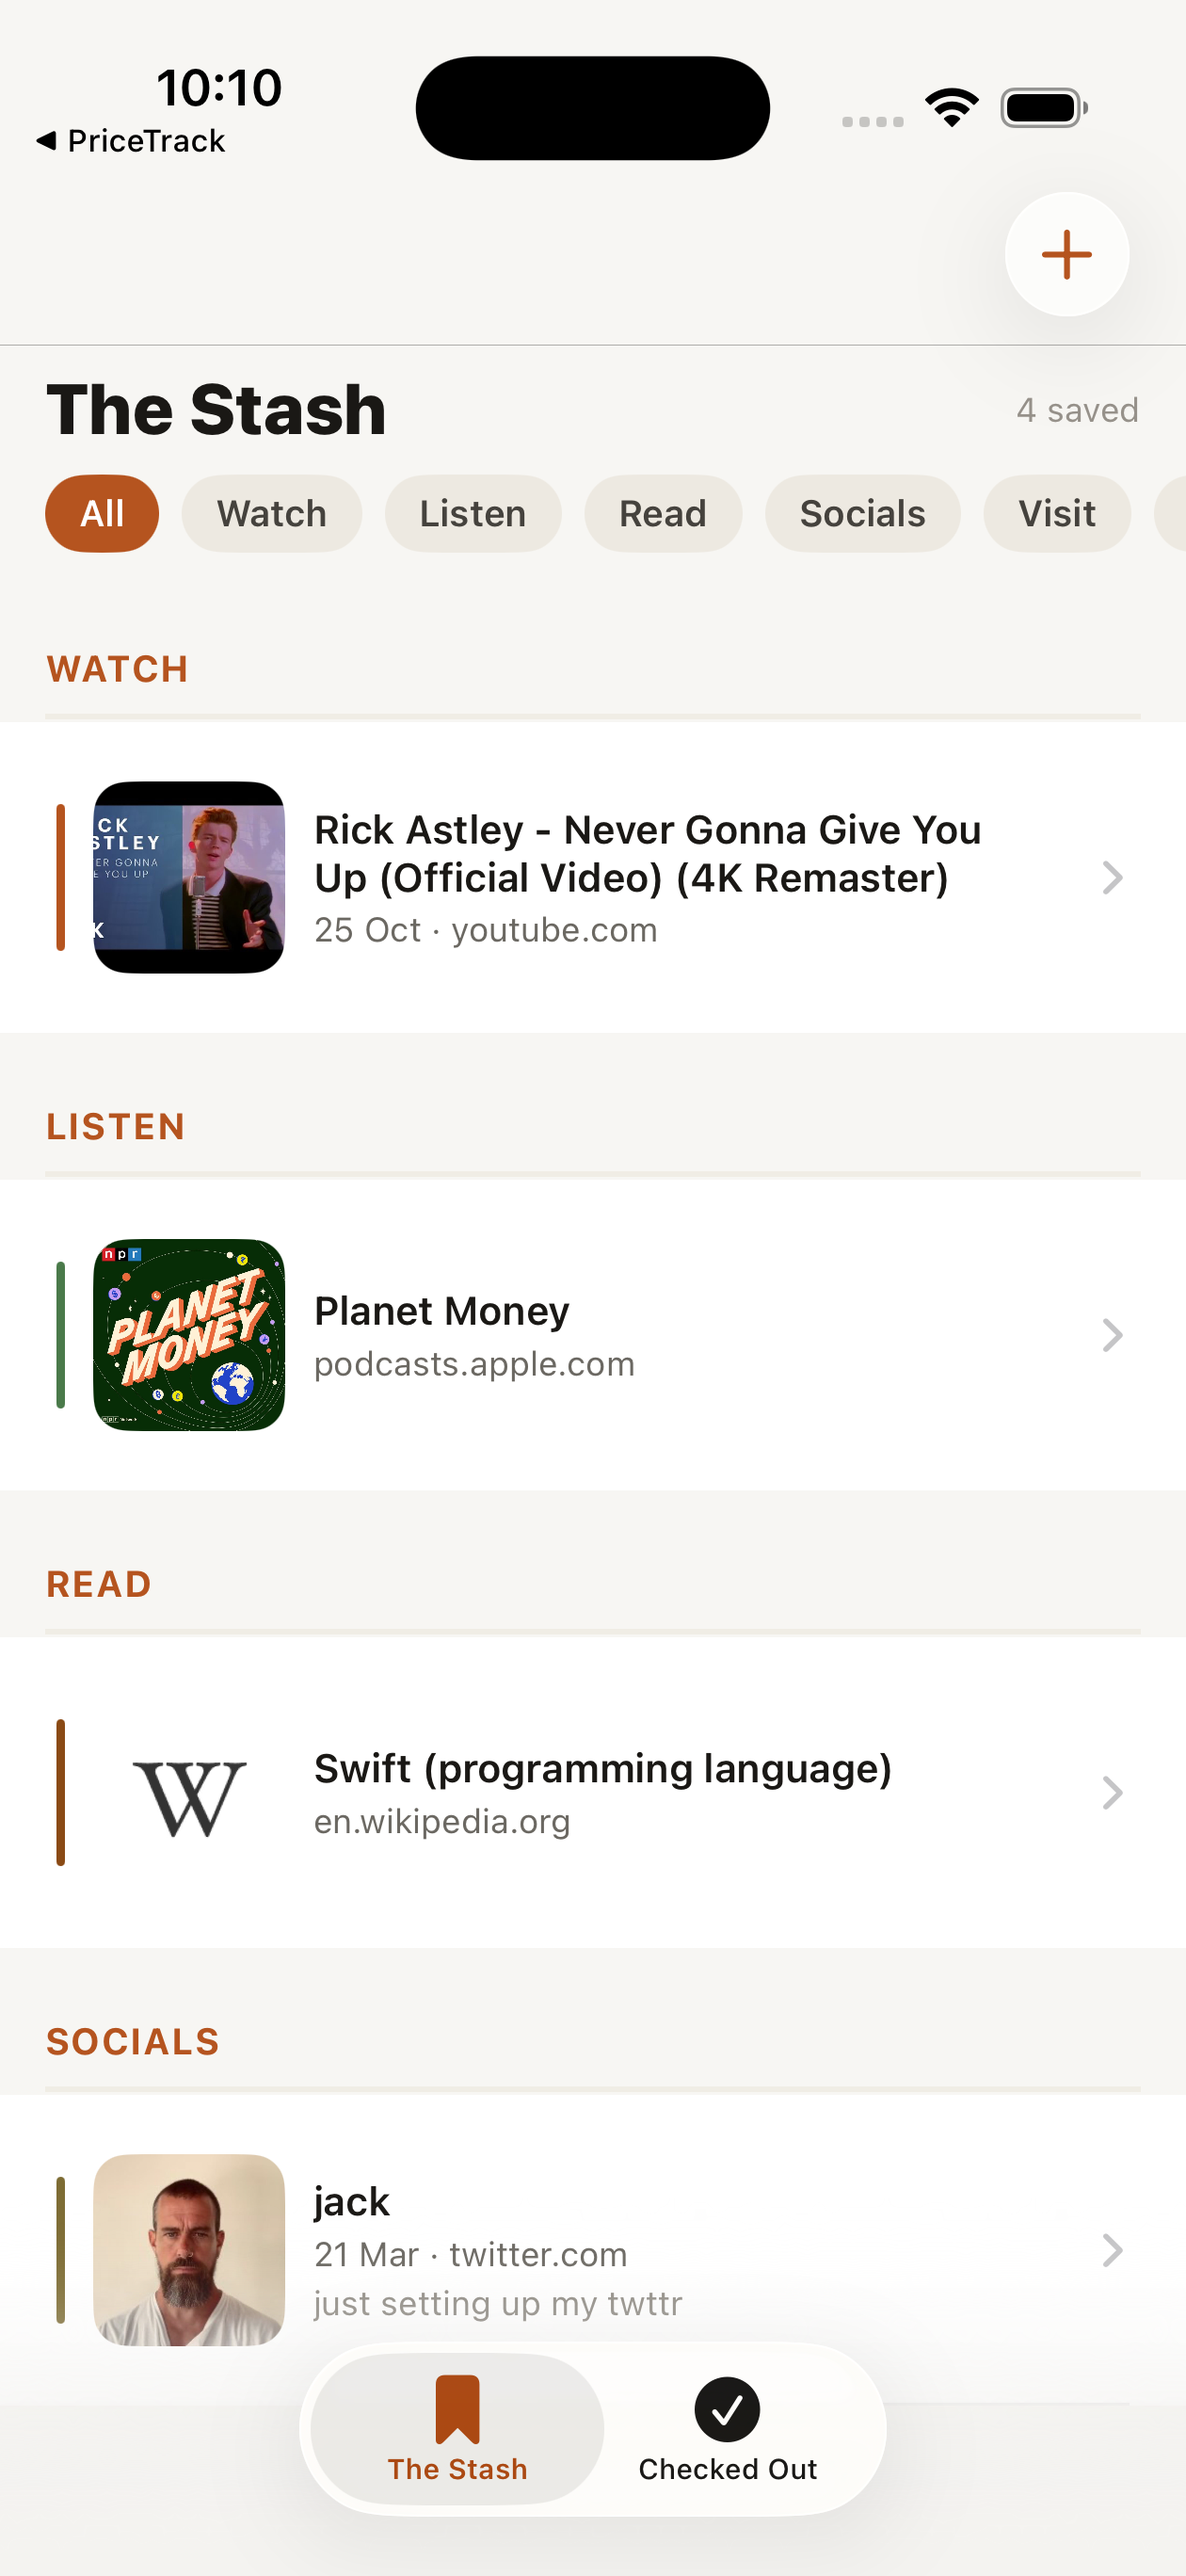
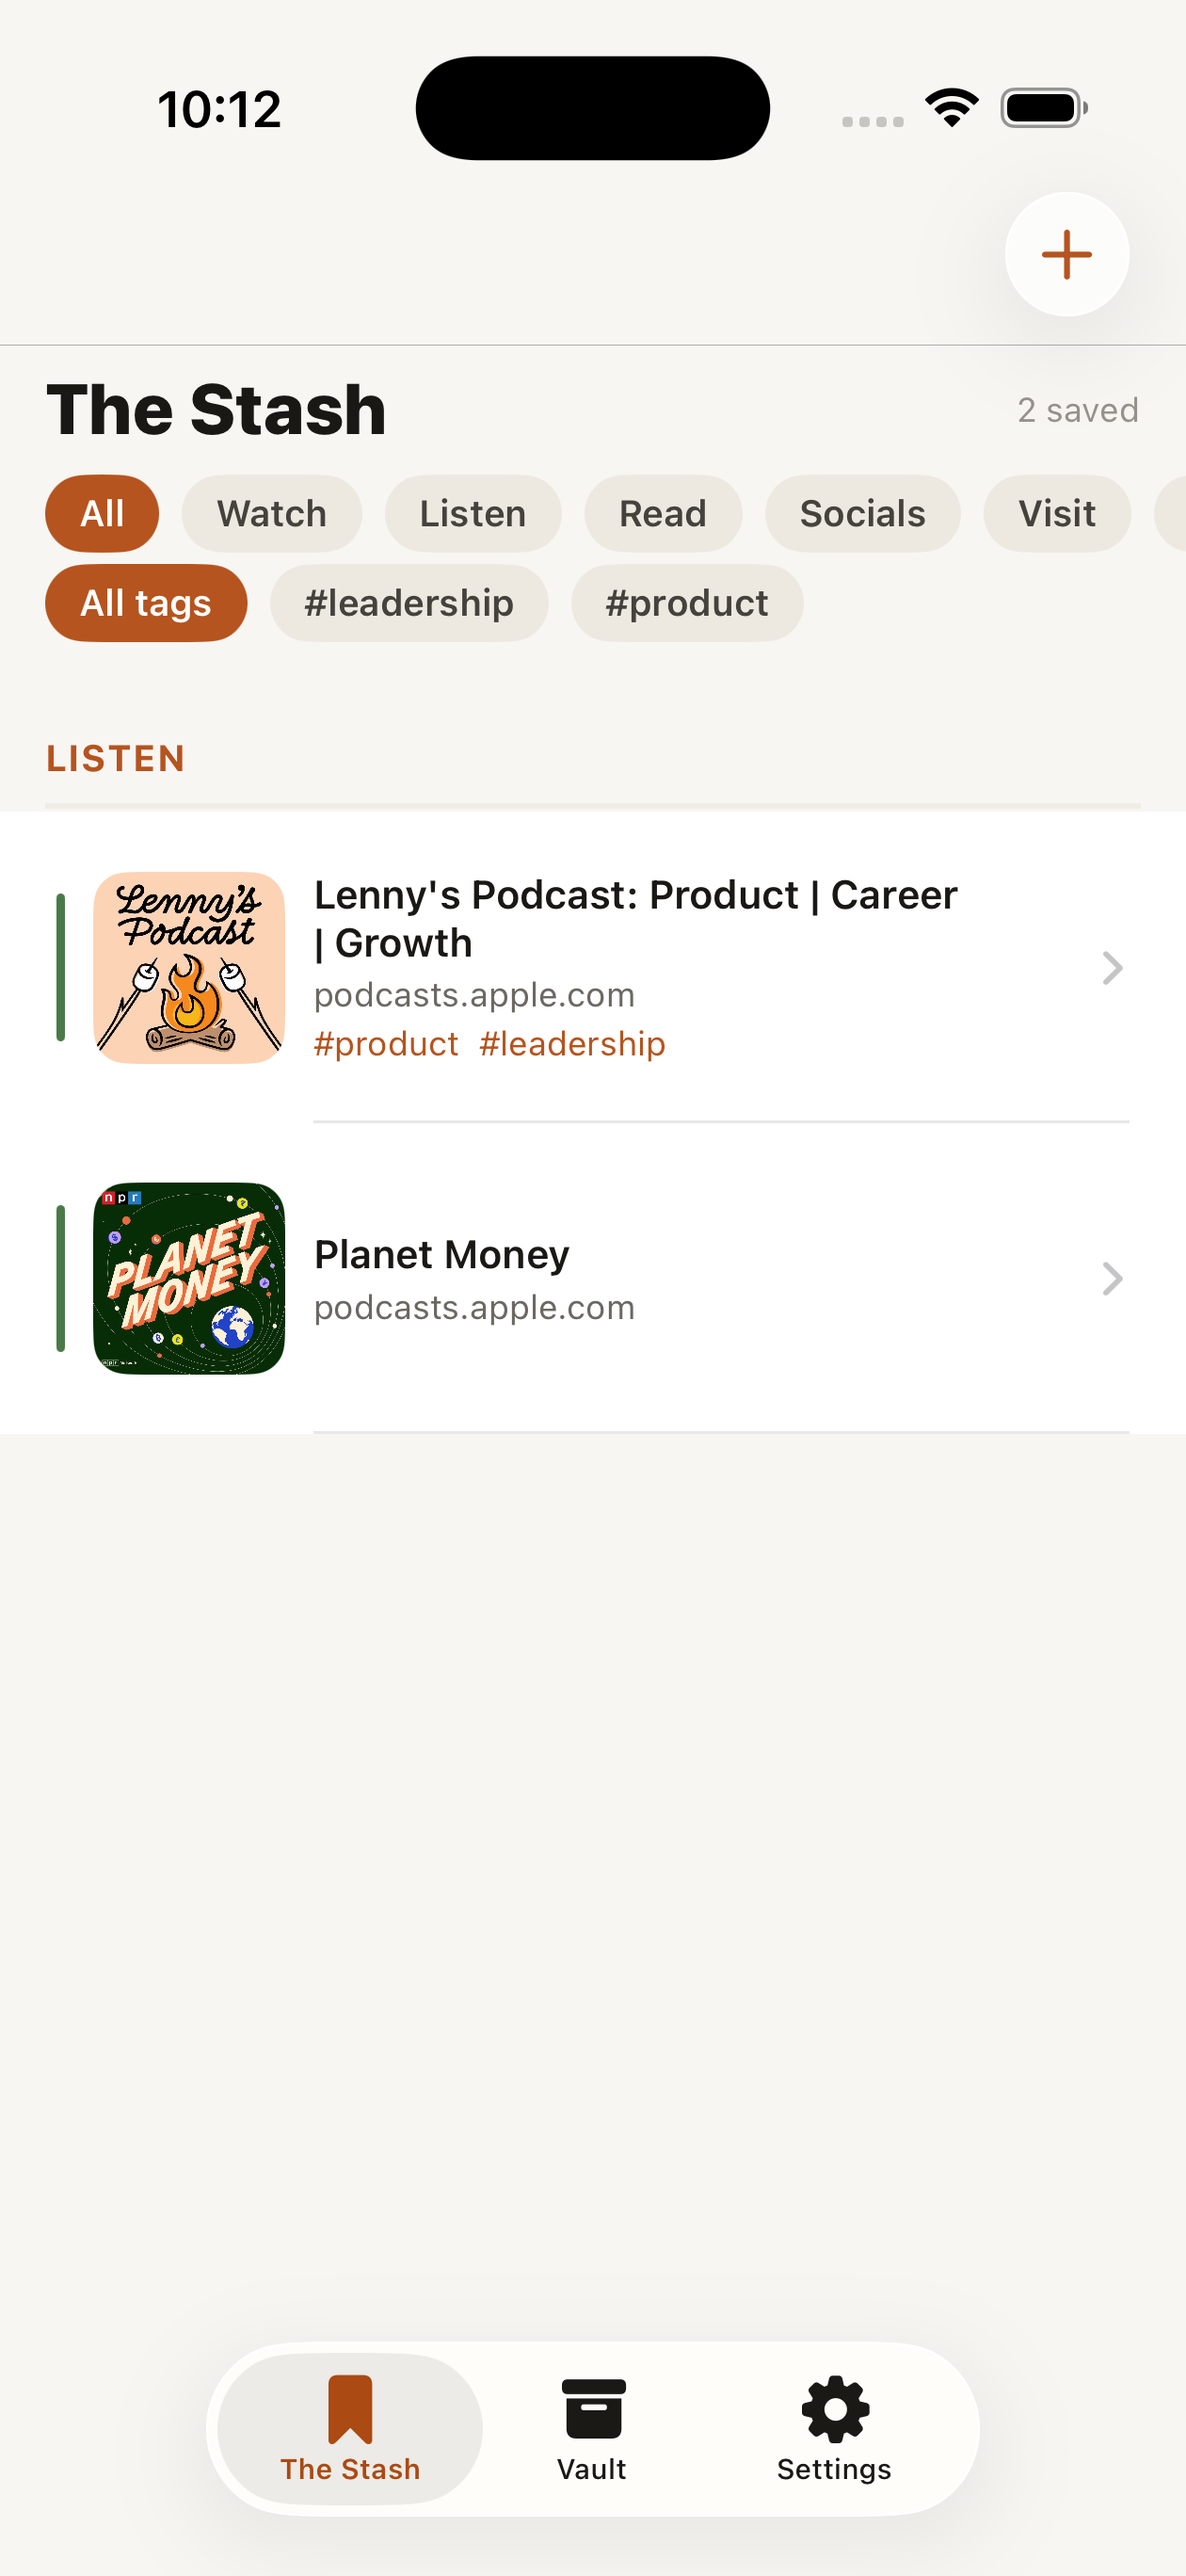
Refresh README screenshots for tagging, editing, Vault, and recall
Replaces the old joke sample data with real, public product/leadership
content (Lenny's Podcast episodes) and adds screenshots for the Edit
sheet, Vault, and daily recall Settings alongside the updated main list.

diff --git a/README.md b/README.md
@@ -3,10 +3,16 @@
 Save any link — a podcast, a YouTube video, a Spotify audiobook, a restaurant, a LinkedIn or X post — with its title, image, and a preview of the content pulled in automatically, so you don't forget about it. Tag it, edit it, mark it done once you've actually checked it out, and let Stash nudge you to revisit it later. Add links from inside the app, or straight from the Share Sheet in Safari/YouTube/Instagram/etc.
 
 <p>
-  <img src="screenshots/the-stash.png" width="320" alt="The Stash list, grouped by category, with auto-fetched titles/images/dates">
+  <img src="screenshots/the-stash.png" width="260" alt="The Stash list, grouped by category, with auto-fetched titles/images and tag chips">
+  <img src="screenshots/link-detail.png" width="260" alt="Link detail view showing tags and a Vaulted badge">
+  <img src="screenshots/vault.png" width="260" alt="The Vault, filtered by tag">
+</p>
+<p>
+  <img src="screenshots/edit-link.png" width="260" alt="Edit Link sheet with tag chips and suggestions">
+  <img src="screenshots/settings.png" width="260" alt="Settings screen configuring daily recall">
 </p>
 
-*(Screenshot uses public sample links, not real personal data.)*
+*(Screenshots use public sample links — episodes of Lenny's Podcast and Planet Money — not real personal data.)*
 
 ## One-time setup
 
@@ -31,8 +37,8 @@ Stash runs **fully local** by design (no iCloud/CloudKit) — a free Apple ID ca
 - **Share Sheet**: tap *Share* from inside YouTube/Instagram/Safari/etc. and send straight to Stash — no need to copy/paste a URL. Handles both proper link shares and apps (like YouTube) that share plain text with a URL embedded in it.
 - **Tap a link** to see the full preview — the image itself is the tap target to open the link (Safari/the relevant app) — plus any fetched post-preview text, your own note, tags, and category/done controls.
 - **Edit anything** — tap the pencil icon on a link's detail view to fix up the title, category, note, or tags after the fact. Changes only apply on Save, so Cancel always discards them, no matter what you typed.
-- **Tags** are free-form and cut across categories and source apps — tag a YouTube video and a saved article both "storytelling" if that's how you think about them. Add tags from the Edit sheet (previously-used tags show up as one-tap suggestions); the list view gets a second filter row for them, alongside the existing category filter, so you can slice by category and tag together.
-- **Daily recall**: from the Settings tab, turn on a once-a-day local notification tied to one tag and one time of day. The notification itself is a generic teaser ("Time to revisit your storytelling stash") — no content is baked into it — and tapping it picks a genuinely random saved link under that tag at open time, so it's always fresh even if what's tagged has changed since the notification was scheduled.
+- **Tags** are free-form and cut across categories and source apps — tag a podcast episode and a saved article both "product" if that's how you think about them. Add tags from the Edit sheet (previously-used tags show up as one-tap suggestions); the list view gets a second filter row for them, alongside the existing category filter, so you can slice by category and tag together.
+- **Daily recall**: from the Settings tab, turn on a once-a-day local notification tied to one tag and one time of day. The notification itself is a generic teaser ("Time to revisit your product stash") — no content is baked into it — and tapping it picks a genuinely random saved link under that tag at open time, so it's always fresh even if what's tagged has changed since the notification was scheduled.
 
 ## Project structure
 
